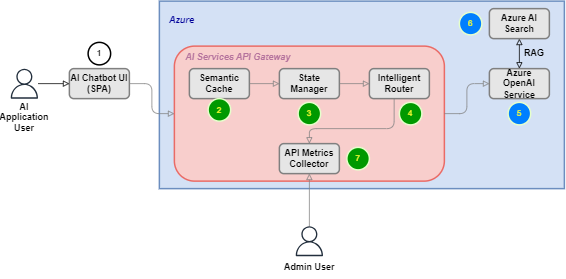
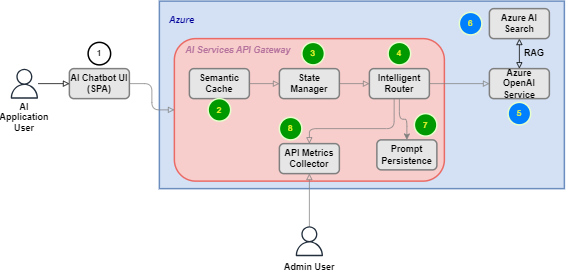
Updated Readme doc and images

diff --git a/README.md b/README.md
@@ -6,7 +6,7 @@ This *solution accelerator* is designed to deliver 80-90% of the core functional
 
 Recipe | Components | Functional Architecture (**)
 ------ | ---------- | ----------------------------
-*AI Information Assistant* | 1. Chatbot User Interface <br> 2. **Semantic Caching** <br> 3. **State Management** <br> 4. **API Traffic Routing** <br> 5. Azure OpenAI Service <br> 6. Azure AI Search (RAG/OYD) <br> 7. **API Metrics Collection** | ![alt tag](./images/ai-chatbot-usecase-gh.PNG)
+***AI Information Assistant*** | 1. Chatbot User Interface <br> 2. **Semantic Caching** <br> 3. **State Management** <br> 4. **API Traffic Routing** <br> 5. Azure OpenAI Service <br> 6. Azure AI Search (RAG/OYD) <br> 7. **Prompt Persistence** <br> 8. **API Metrics Collection** | ![alt tag](./images/ai-chatbot-usecase-gh.PNG)
 
 ** Components marked by green circles are out of box features.
 
@@ -52,12 +52,14 @@ The AI Services Gateway can be used in the following scenarios.
 
 ### Feature/Capability Support Matrix
 
-Feature/Capability | Azure OpenAI Service | Azure AI Search | Azure AI Language | Azure AI Translator | Azure AI Content Safety
------------------- | -------------------- | --------------- | ----------------- | ------------------- | -----------------------
-Semantic Cache | Yes <br> - Completions API <br> - Chat Completions API | No | No | No | No
-State Management | Yes <br> - Chat Completions API | No | No | No | No
-API Router | Yes | Yes | Yes | Yes | Yes
-Metrics Collection | Yes | Yes | Yes | Yes | Yes
+Feature/Capability | Configurable ? | Azure OpenAI Service | Azure AI Search | Azure AI Language | Azure AI Translator | Azure AI Content Safety |
+------------------ | -------------- | -------------------- | --------------- | ----------------- | ------------------- | ----------------------- |
+|---               |     |---|      |        |---|         |      |---|      |      |---|        |       |---|         |         |---|           |
+**Semantic Cache** | Yes | Yes <br> - Completions API <br> - Chat Completions API | No | No | No | No
+**State Management** | Yes | Yes <br> - Chat Completions API | No | No | No | No
+**API Router** | Yes | Yes | Yes | Yes | Yes | Yes
+**Prompt Persistence** | Yes | Yes | No | No | No | No
+**Metrics Collection** | No | Yes | Yes | Yes | Yes | Yes
 
 ### Reference Architecture
 
